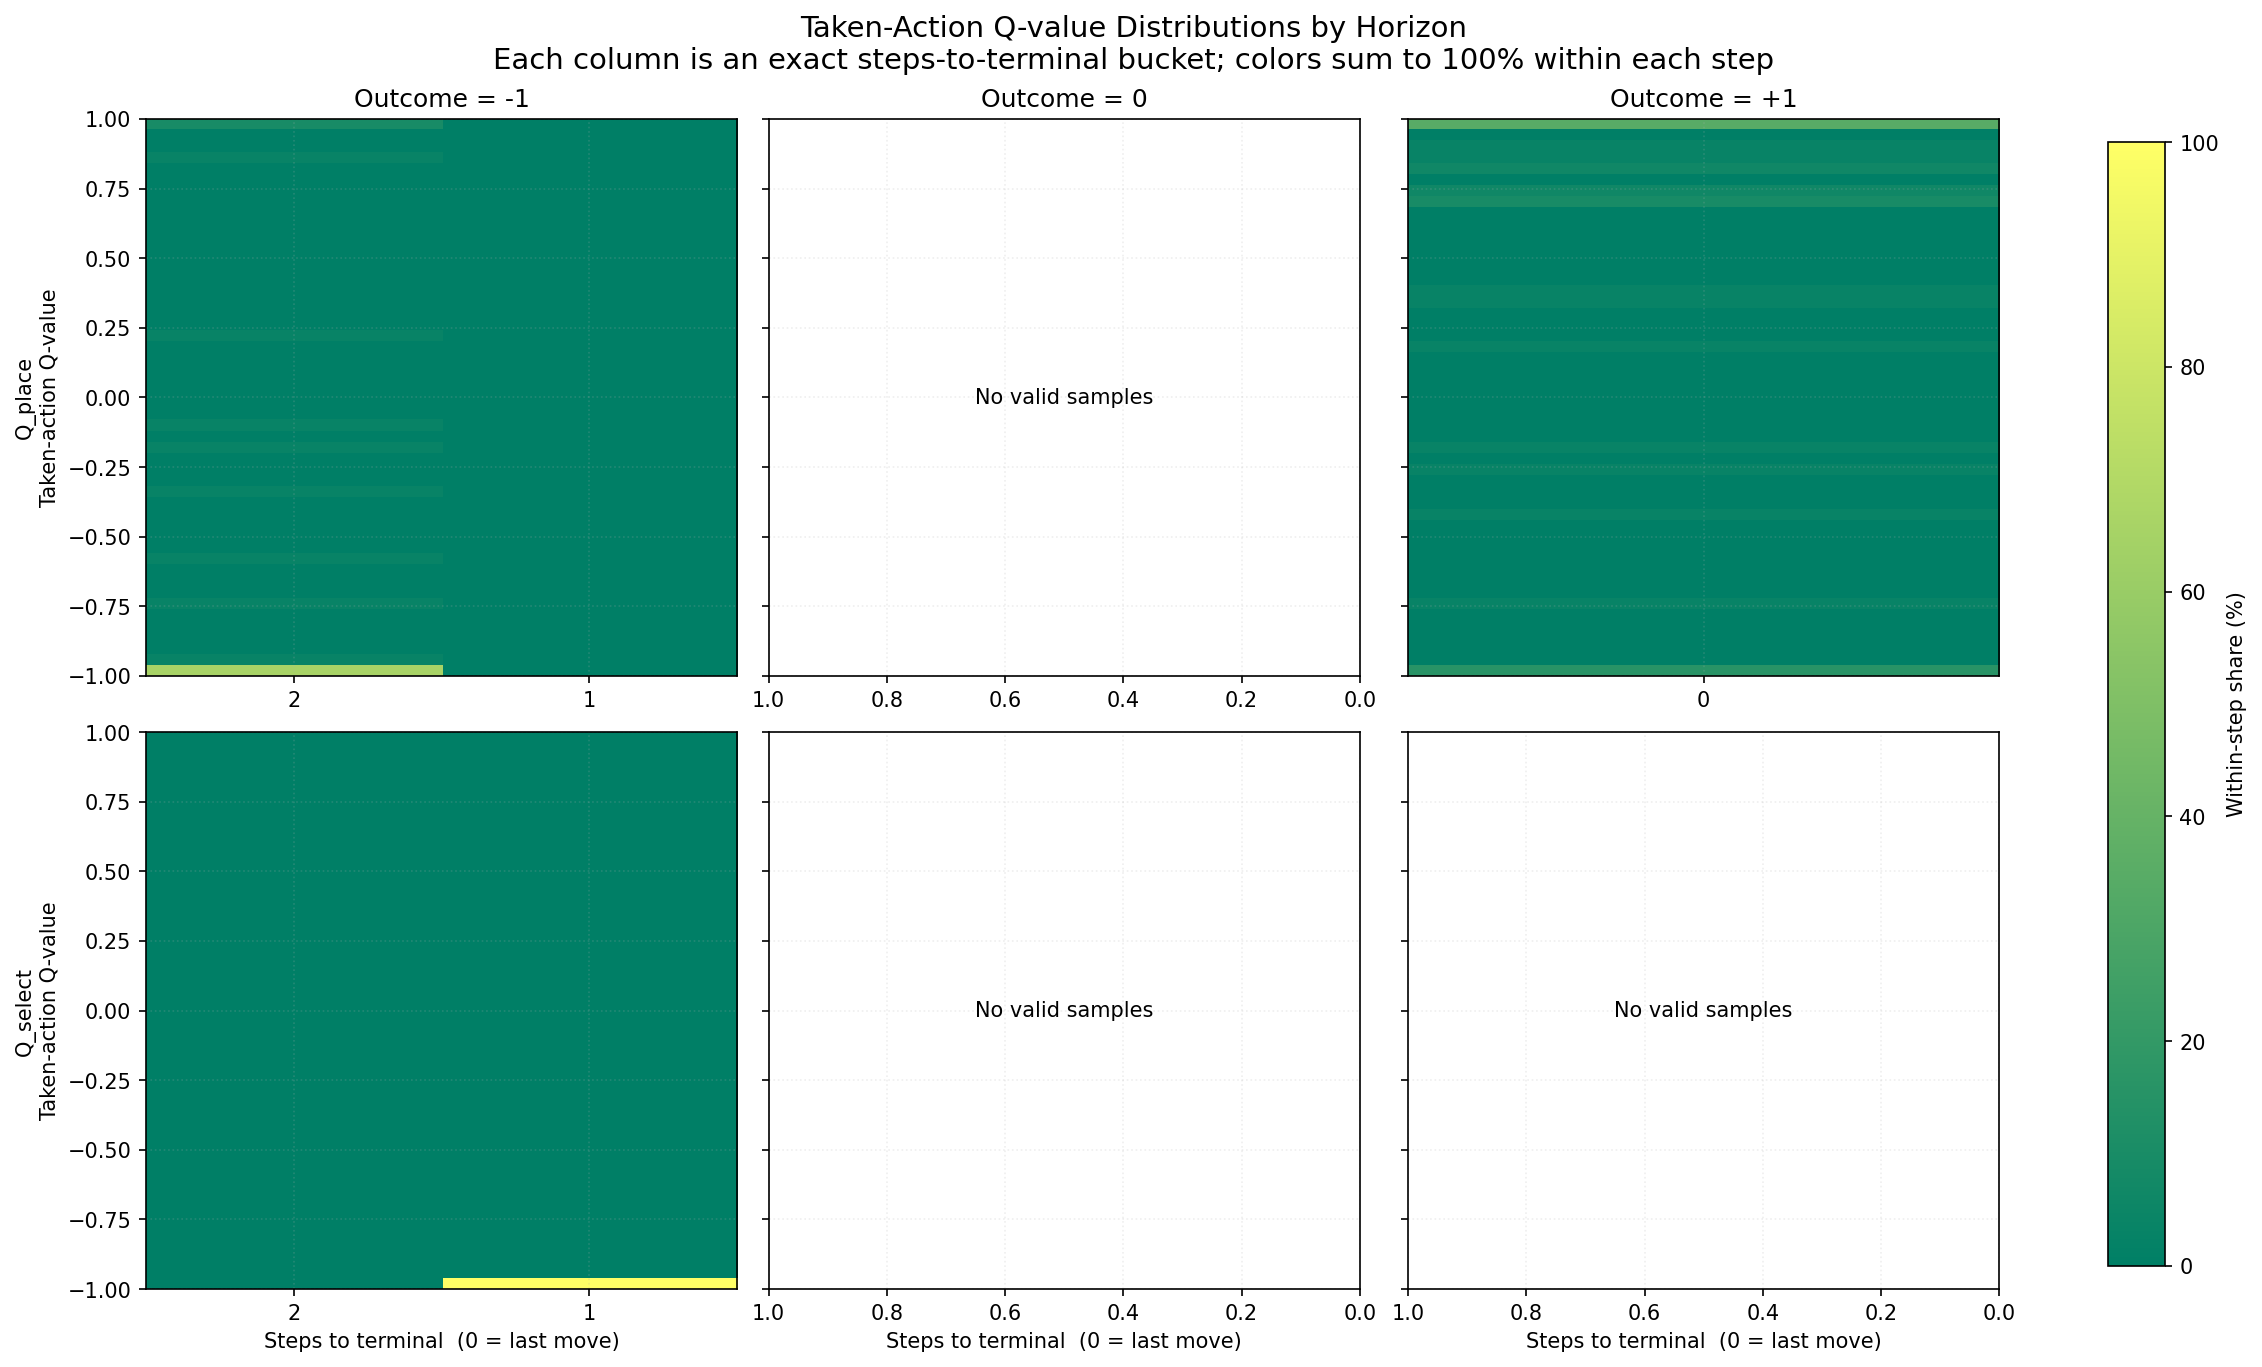
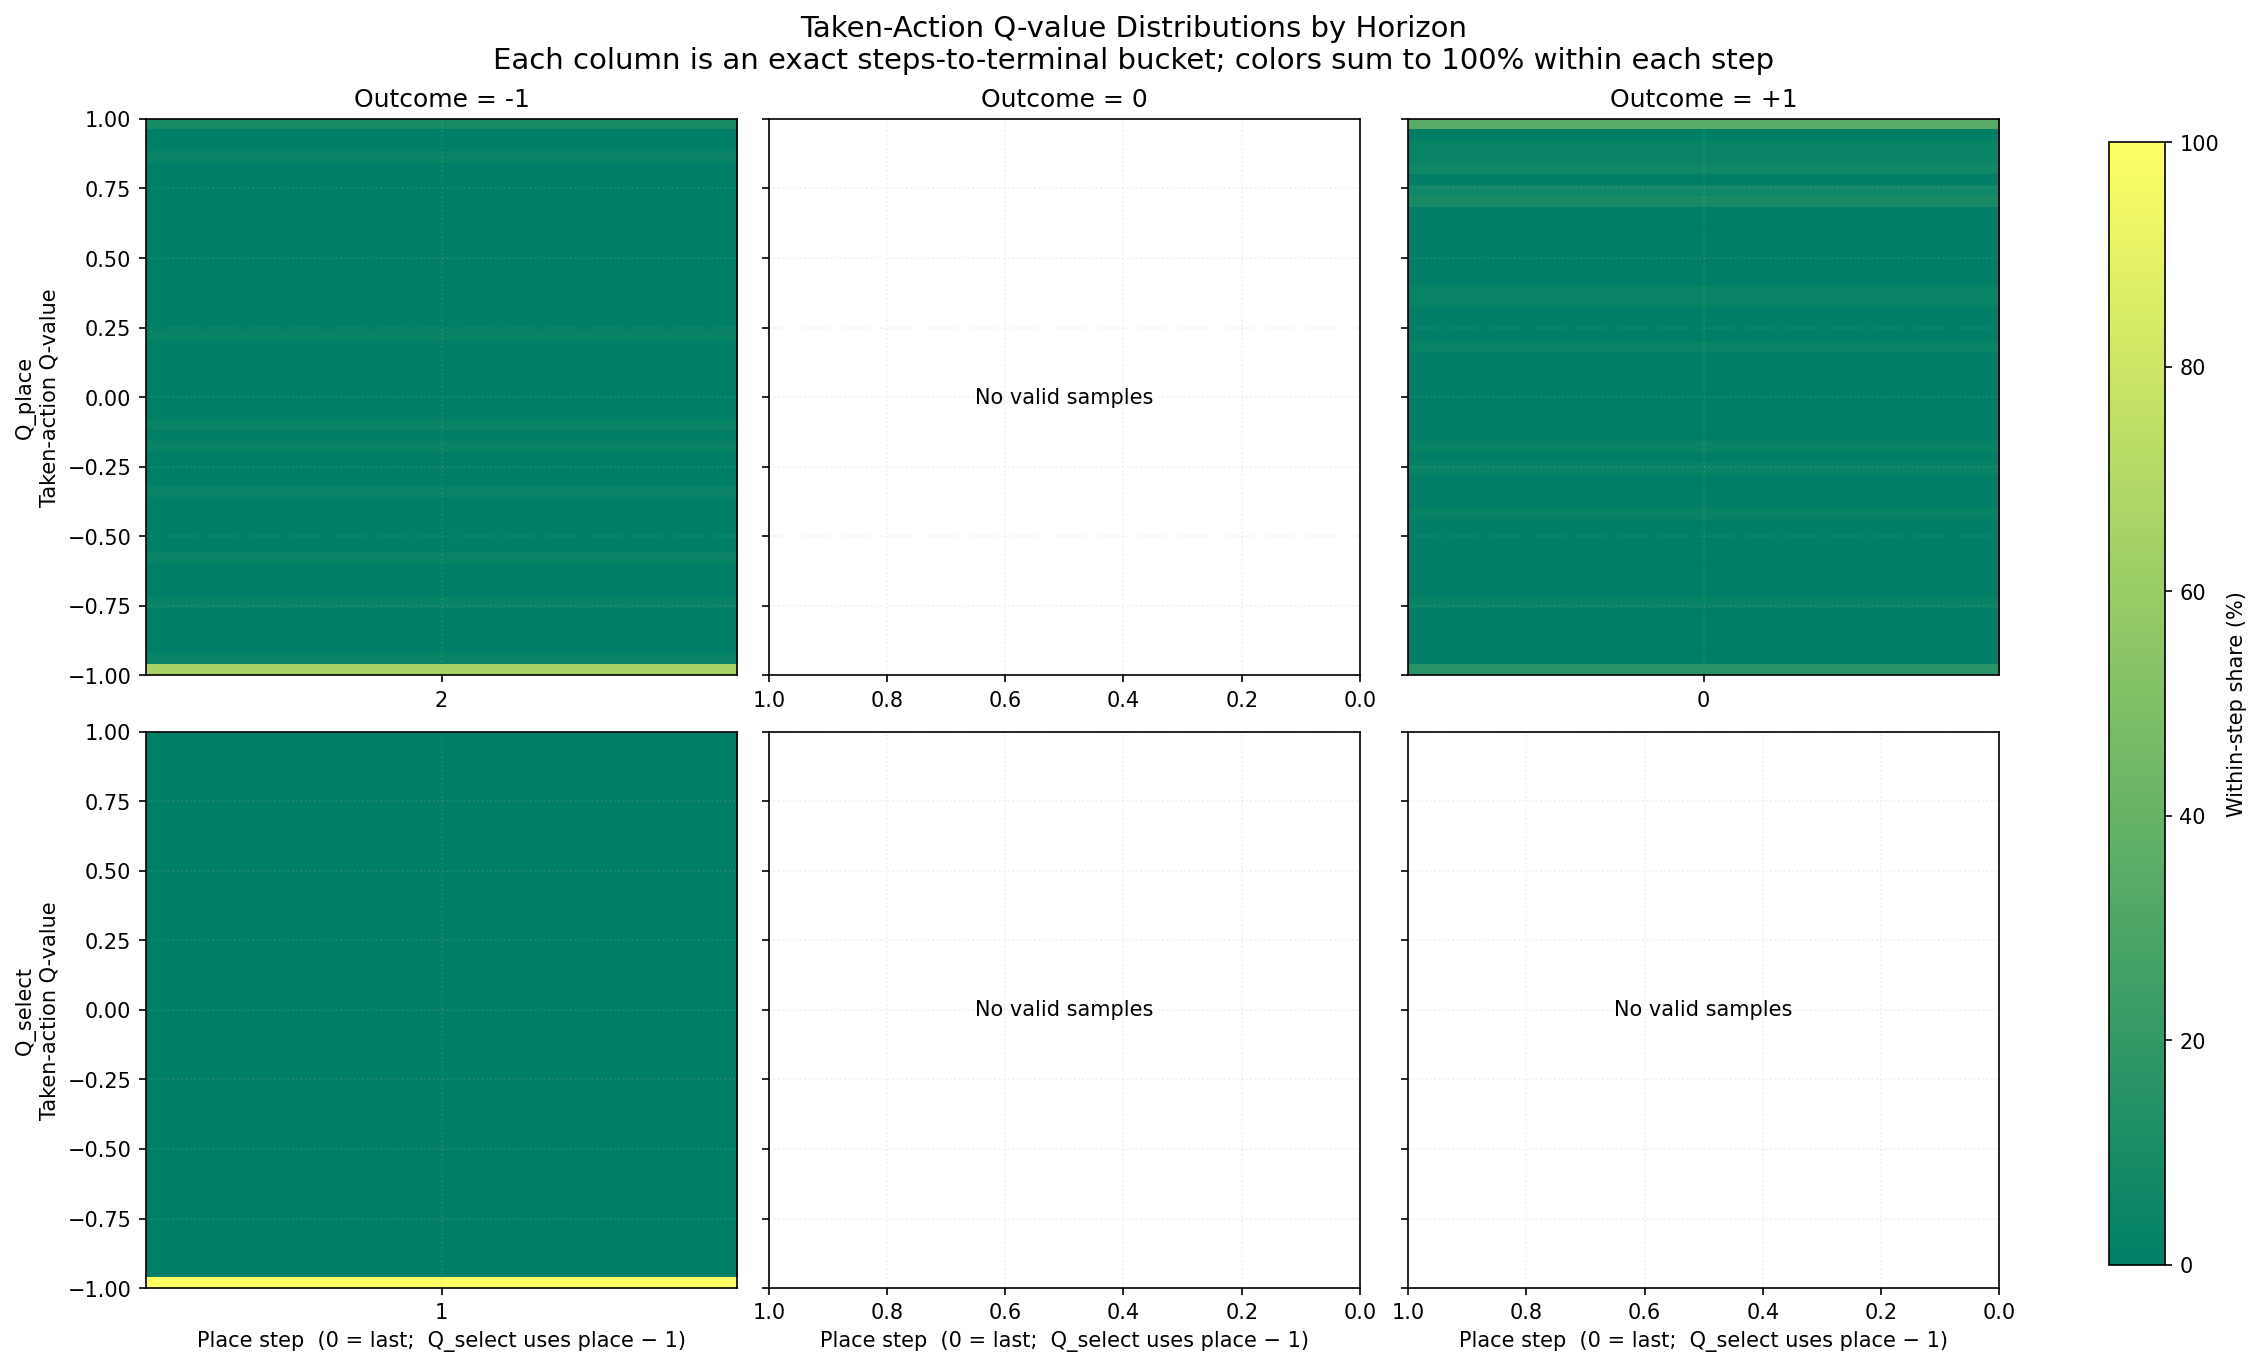
:bug: improve visualization of qv horizon with appropriate phase moves.

diff --git a/QuartoRL/observers.py b/QuartoRL/observers.py
@@ -415,6 +415,7 @@ def plot_Qv_horizon(
     q_select: torch.Tensor | np.ndarray,
     outcome: torch.Tensor | np.ndarray,
     steps_to_terminal: torch.Tensor | np.ndarray,
+    phase: torch.Tensor | np.ndarray | None = None,
     fig_num: int = 5,
     DISPLAY_PLOT: bool = True,
     position: tuple[int, int] | None = (900, 0),
@@ -428,10 +429,20 @@ def plot_Qv_horizon(
     """Plot taken-action Q-value distributions by exact distance to terminal.
 
     Each panel contains the distribution of the stored taken-action Q-values for
-    one head and one player-perspective outcome. Columns on the x-axis are exact
-    ``steps_to_terminal`` buckets, so each vertical slice answers: among states
-    exactly ``n`` steps from termination, how are the taken-action Q-values
-    distributed?
+    one head and one player-perspective outcome.
+
+    **Joint schema** (``phase=None``): columns on the x-axis are exact
+    ``steps_to_terminal`` buckets.
+
+    **Decoupled-autoregressive schema** (``phase`` provided): the x-axis
+    switches to *joint-turn* index so that Q_place and Q_select for the same
+    player's turn are **vertically aligned**.  In the decoupled schema, even
+    steps are always PHASE_PLACE and odd steps are always PHASE_SELECT.
+    Joint-turn T = step // 2 for place, T = (step + 1) // 2 for select, so the
+    paired actions (place step=2k, select step=2k−1) share the same column T=k.
+    Tick labels show the place-step number for each joint turn.  The terminal
+    turn (step=0) has no paired select, so that Q_select column is shown as
+    white.
     """
 
     def _to_numpy(values: torch.Tensor | np.ndarray) -> np.ndarray:
@@ -458,6 +469,10 @@ def plot_Qv_horizon(
     outcome_np = outcome_np[:batch_size]
     steps_np = steps_np[:batch_size]
 
+    phase_np: np.ndarray | None = None
+    if phase is not None:
+        phase_np = _to_numpy(phase).reshape(-1)[:batch_size].astype(int)
+
     experiment_name = f"{experiment_name}-{fig_num}"
     if plt.fignum_exists(experiment_name):
         fig = plt.figure(experiment_name)
@@ -475,9 +490,6 @@ def plot_Qv_horizon(
         except:
             pass
 
-    # sharey=True but NOT sharex: Q_place and Q_select can have different step
-    # ranges for the same outcome column (e.g. Q_select excludes step=0), so
-    # sharing x would let the second ax.set_xlim overwrite the first and clip data.
     axes = np.asarray(fig.subplots(2, 3, sharex=False, sharey=True))
     fig.suptitle(
         "Taken-Action Q-value Distributions by Horizon\n"
@@ -485,9 +497,7 @@ def plot_Qv_horizon(
         fontsize=14,
     )
 
-    # Fixed y-axis so all panels share the same scale as Q-value bounds.
     hist_range = (-1.0, 1.0)
-
     outcome_columns = [(-1, "Outcome = -1"), (0, "Outcome = 0"), (1, "Outcome = +1")]
     hist_bins = 50
     head_rows = [
@@ -496,86 +506,185 @@ def plot_Qv_horizon(
     ]
     heatmap_artist = None
 
+    # Decoupled schema: precompute per-outcome-column turn mapping.
+    # PHASE_PLACE=0 (even steps), PHASE_SELECT=1 (odd steps).
+    # Joint-turn T: place step s → T = s // 2; select step s → T = (s + 1) // 2.
+    _PHASE_PLACE = 0
+    _PHASE_SELECT = 1
+    col_info: list[dict] = []
+    if phase_np is not None:
+        for outcome_value, _ in outcome_columns:
+            pm = (outcome_np == outcome_value) & (phase_np == _PHASE_PLACE)
+            sm = (outcome_np == outcome_value) & (phase_np == _PHASE_SELECT)
+            ps = np.sort(np.unique(steps_np[pm]).astype(int))  # even steps
+            ss = np.sort(np.unique(steps_np[sm]).astype(int))  # odd steps
+            pt = ps // 2
+            st = (ss + 1) // 2
+            parts = ([pt] if pt.size > 0 else []) + ([st] if st.size > 0 else [])
+            all_T = (
+                np.sort(np.unique(np.concatenate(parts)))
+                if parts
+                else np.array([], dtype=int)
+            )
+            T_to_L = {int(T): int(L) for L, T in enumerate(all_T)}
+            col_info.append(
+                {
+                    "place_mask": pm,
+                    "select_mask": sm,
+                    "place_steps": ps,
+                    "select_steps": ss,
+                    "T_to_L": T_to_L,
+                    "n_turns": len(all_T),
+                    # tick labels are computed per-head at render time
+                }
+            )
+
+    # Colormap with white for NaN columns (no data at that turn for this head).
+    _cmap_nan = plt.cm.summer.copy()
+    _cmap_nan.set_bad(color="white")
+
     for row, (head_name, q_values) in enumerate(head_rows):
         for col, (outcome_value, title) in enumerate(outcome_columns):
             ax = axes[row, col]
-            mask = outcome_np == outcome_value
-            if head_name == "Q_select":
-                # step=0 is the terminal placement — no piece selection follows,
-                # so Q_select is undefined there. Exclude it entirely.
-                mask &= steps_np > 0
-            # Active steps for this exact (head, outcome) combination.
-            _active = steps_np[mask]
-            subplot_steps = (
-                np.sort(np.unique(_active.astype(int)))
-                if _active.size > 0
-                else np.array([], dtype=int)
-            )
 
-            n_steps = max(subplot_steps.size, 1)
-            hist_matrix = np.zeros((hist_bins, n_steps), dtype=float)
-            mean_curve = np.full(n_steps, np.nan, dtype=float)
-            has_valid_samples = False
+            if phase_np is not None:
+                # ---- Decoupled schema: phase-filtered, turn-aligned ----
+                info = col_info[col]
+                n_turns = info["n_turns"]
+                T_to_L = info["T_to_L"]
 
-            for step_idx, step in enumerate(subplot_steps):
-                step_values = q_values[mask & (steps_np == step)]
-                step_values = step_values[np.isfinite(step_values)]
-                if step_values.size == 0:
-                    continue
+                if head_name == "Q_place":
+                    active_mask = info["place_mask"]
+                    active_steps = info["place_steps"]
+                else:
+                    active_mask = info["select_mask"]
+                    active_steps = info["select_steps"]
 
-                has_valid_samples = True
-                hist, _ = np.histogram(
-                    step_values,
-                    bins=hist_bins,
-                    range=hist_range,
-                )
-                hist_matrix[:, step_idx] = (hist / hist.sum()) * 100
-                mean_curve[step_idx] = step_values.mean()
+                has_valid_samples = False
+                if n_turns == 0:
+                    ax.text(
+                        0.5,
+                        0.5,
+                        "No valid samples",
+                        ha="center",
+                        va="center",
+                        transform=ax.transAxes,
+                    )
+                else:
+                    # NaN init: columns without data stay NaN → rendered white.
+                    hist_matrix = np.full((hist_bins, n_turns), np.nan, dtype=float)
+                    for step in active_steps:
+                        step_values = q_values[active_mask & (steps_np == step)]
+                        step_values = step_values[np.isfinite(step_values)]
+                        if step_values.size == 0:
+                            continue
+                        has_valid_samples = True
+                        T = (
+                            int(step) // 2
+                            if head_name == "Q_place"
+                            else (int(step) + 1) // 2
+                        )
+                        L = T_to_L[T]
+                        hist, _ = np.histogram(
+                            step_values, bins=hist_bins, range=hist_range
+                        )
+                        hist_matrix[:, L] = (hist / hist.sum()) * 100
 
-            if has_valid_samples:
-                heatmap_artist = ax.imshow(
-                    hist_matrix,
-                    aspect="auto",
-                    origin="lower",
-                    cmap="summer",
-                    interpolation="nearest",
-                    extent=[
-                        subplot_steps[0] - 0.5,
-                        subplot_steps[-1] + 0.5,
-                        hist_range[0],
-                        hist_range[1],
-                    ],
-                    vmin=0,
-                    vmax=100,
-                )
-                # if np.isfinite(mean_curve).any():
-                #     ax.plot(
-                #         subplot_steps,
-                #         mean_curve,
-                #         color="white",
-                #         linewidth=1.6,
-                #         alpha=0.9,
-                #     )
+                    if has_valid_samples:
+                        heatmap_artist = ax.imshow(
+                            hist_matrix,
+                            aspect="auto",
+                            origin="lower",
+                            cmap=_cmap_nan,
+                            interpolation="nearest",
+                            extent=[-0.5, n_turns - 0.5, hist_range[0], hist_range[1]],
+                            vmin=0,
+                            vmax=100,
+                        )
+                        all_T = sorted(info["T_to_L"].keys())
+                        if head_name == "Q_place":
+                            _tick_labels = [str(int(T) * 2) for T in all_T]
+                        else:
+                            _tick_labels = [str(int(T) * 2 - 1) for T in all_T]
+                        ax.set_xticks(range(n_turns))
+                        ax.set_xticklabels(_tick_labels)
+                        ax.set_xlim(-0.5, n_turns - 0.5)
+                    else:
+                        ax.text(
+                            0.5,
+                            0.5,
+                            "No valid samples",
+                            ha="center",
+                            va="center",
+                            transform=ax.transAxes,
+                        )
+
             else:
-                ax.text(
-                    0.5,
-                    0.5,
-                    "No valid samples",
-                    ha="center",
-                    va="center",
-                    transform=ax.transAxes,
+                # ---- Joint schema: original step-based logic ----
+                mask = outcome_np == outcome_value
+                if head_name == "Q_select":
+                    # step=0 is the terminal placement — no piece selection follows.
+                    mask &= steps_np > 0
+                _active = steps_np[mask]
+                subplot_steps = (
+                    np.sort(np.unique(_active.astype(int)))
+                    if _active.size > 0
+                    else np.array([], dtype=int)
                 )
+                n_steps = max(subplot_steps.size, 1)
+                hist_matrix = np.zeros((hist_bins, n_steps), dtype=float)
+                has_valid_samples = False
+
+                for step_idx, step in enumerate(subplot_steps):
+                    step_values = q_values[mask & (steps_np == step)]
+                    step_values = step_values[np.isfinite(step_values)]
+                    if step_values.size == 0:
+                        continue
+                    has_valid_samples = True
+                    hist, _ = np.histogram(
+                        step_values, bins=hist_bins, range=hist_range
+                    )
+                    hist_matrix[:, step_idx] = (hist / hist.sum()) * 100
+
+                if has_valid_samples:
+                    heatmap_artist = ax.imshow(
+                        hist_matrix,
+                        aspect="auto",
+                        origin="lower",
+                        cmap="summer",
+                        interpolation="nearest",
+                        extent=[
+                            subplot_steps[0] - 0.5,
+                            subplot_steps[-1] + 0.5,
+                            hist_range[0],
+                            hist_range[1],
+                        ],
+                        vmin=0,
+                        vmax=100,
+                    )
+                else:
+                    ax.text(
+                        0.5,
+                        0.5,
+                        "No valid samples",
+                        ha="center",
+                        va="center",
+                        transform=ax.transAxes,
+                    )
+
+                if subplot_steps.size > 0:
+                    ax.set_xticks(subplot_steps)
+                    ax.set_xlim(subplot_steps[0] - 0.5, subplot_steps[-1] + 0.5)
 
             if row == 0:
                 ax.set_title(title)
             if col == 0:
                 ax.set_ylabel(f"{head_name}\nTaken-action Q-value")
             if row == 1:
-                ax.set_xlabel("Steps to terminal  (0 = last move)")
-
-            if subplot_steps.size > 0:
-                ax.set_xticks(subplot_steps)
-                ax.set_xlim(subplot_steps[0] - 0.5, subplot_steps[-1] + 0.5)
+                if phase_np is not None:
+                    ax.set_xlabel("Place step  (0 = last;  Q_select uses place − 1)")
+                else:
+                    ax.set_xlabel("Steps to terminal  (0 = last move)")
             ax.set_ylim(-1, 1)
             ax.invert_xaxis()
             ax.grid(True, alpha=0.2, linestyle=":")

diff --git a/tools/view_qv.py b/tools/view_qv.py
@@ -24,6 +24,7 @@ import pickle
 import io
 from os import path
 
+import numpy as np
 import torch
 import matplotlib.pyplot as plt
 
@@ -211,11 +212,28 @@ def main():
                 qh["steps_to_terminal"][0] if qh.get("steps_to_terminal") else None
             )
             if outcome is not None and steps_to_terminal is not None:
+                # Auto-detect decoupled schema: in decoupled experiments, the
+                # CNN_autoreg_bot.evaluate contract sets q_place=NaN for all
+                # select-phase transitions (odd steps) and q_select=NaN for all
+                # place-phase transitions (even steps).  Check if every odd-step
+                # q_place value is non-finite; if so, infer phase from step parity.
+                _q_p = np.array(qh["q_place"][-1])
+                _s_t = np.array(steps_to_terminal)
+                _min_len = min(len(_q_p), len(_s_t))
+                _odd_mask = _s_t[:_min_len] % 2 == 1
+                _phase_horizon = None
+                if (
+                    _odd_mask.any()
+                    and not np.isfinite(_q_p[:_min_len][_odd_mask]).any()
+                ):
+                    _phase_horizon = np.where(_s_t % 2 == 0, 0, 1).astype(np.float32)
+
                 plot_Qv_horizon(
                     qh["q_place"][-1],
                     qh["q_select"][-1],
                     outcome,
                     steps_to_terminal,
+                    phase=_phase_horizon,
                     fig_num=5,
                     DISPLAY_PLOT=True,
                     experiment_name=full_name,

diff --git a/trainRL.py b/trainRL.py
@@ -561,6 +561,7 @@ for e in tqdm(
             q_select,
             exp["outcome"],
             exp["steps_to_terminal"],
+            phase=exp.get("phase", None),
             fig_num=5,
             DISPLAY_PLOT=True,
             experiment_name=EXPERIMENT_NAME,
